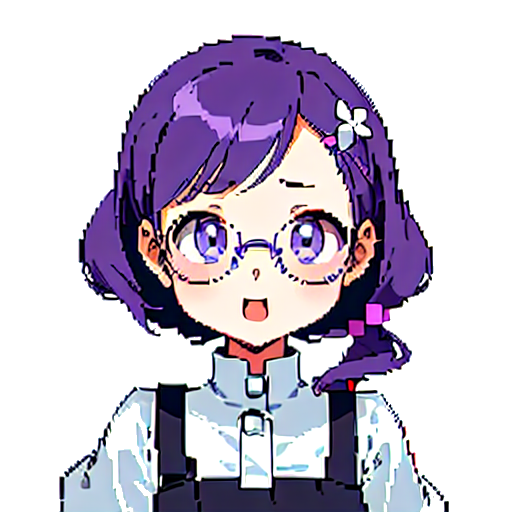
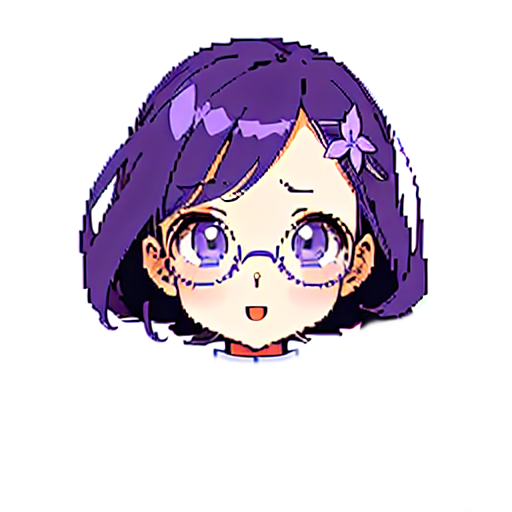
fix: 앙드레/아르준 포트레이트 로딩 + 메이지 포트레이트 v10 #02 적용
- PORTRAIT_IDS에 andre, masala_guide 추가 (인게임 로드 누락 수정)
- portrait_arjun.png → portrait_masala_guide.png 리네임 (portraitKey 일치)
- 메이지 포트레이트 후보 #02 적용 (SD Forge + PixelSprite LoRA + rembg)
- 메이지 후보 10개 v10 업데이트

diff --git a/js/managers/SpriteLoader.js b/js/managers/SpriteLoader.js
@@ -159,8 +159,8 @@ const WALK_DIRS = ['south', 'south-east', 'east', 'north-east', 'north', 'north-
 /** 걷기 애니메이션 프레임 수 */
 const WALK_FRAME_COUNT = 6;
 
-// ── 초상화 ID 목록 (Phase 14-2b, Phase 19-1: yuki, lao 추가) ──
-const PORTRAIT_IDS = ['mimi', 'poco', 'rin', 'mage', 'yuki', 'lao'];
+// ── 초상화 ID 목록 (Phase 14-2b, Phase 19-1: yuki, lao 추가, Phase 27-1: andre, Phase 32-4: arjun 추가) ──
+const PORTRAIT_IDS = ['mimi', 'poco', 'rin', 'mage', 'yuki', 'lao', 'andre', 'masala_guide'];
 
 // ── 타일셋 ID 목록 (14종, Phase 32-2: spice_palace_interior 추가) ──
 const TILESET_IDS = [
